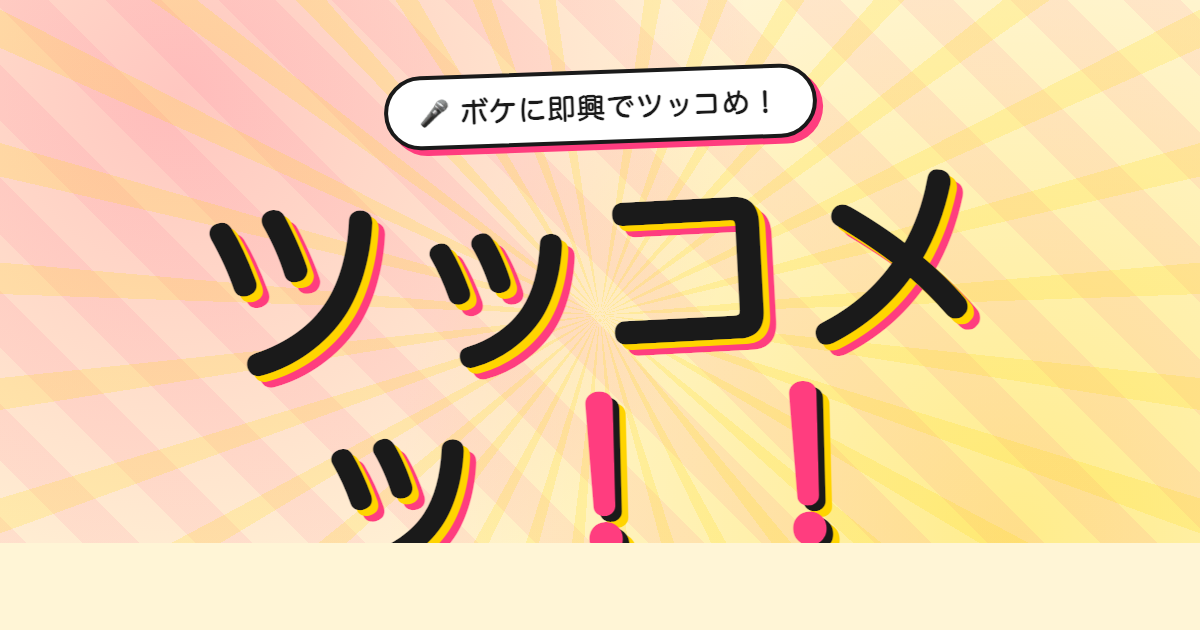
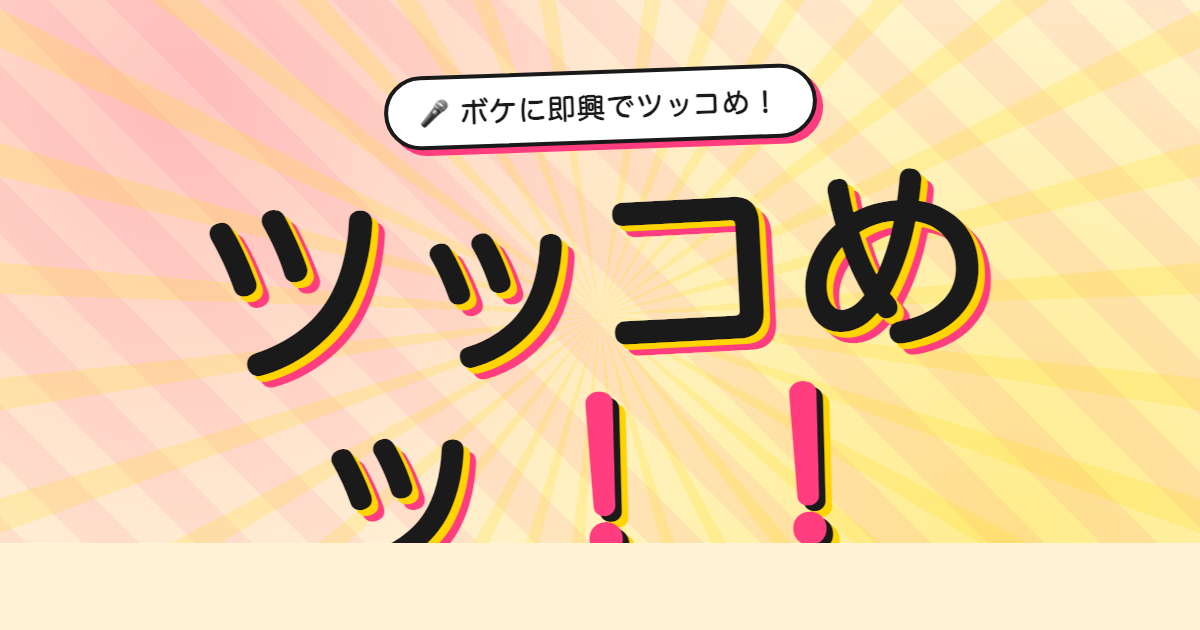
Simplify voice mode UX and rename to ツッコめッ
- Remove the manual mic on/off button
- Mic now controlled implicitly by the 音声入力 tab and ツッコめッ button:
  - Switching to 音声入力 tab starts recording (if not already)
  - Clicking 💥 ツッコめッ stops, transcribes, and submits
  - 次のお題 discards and starts a fresh capture
- Recording state shown via pulsing red border + dot indicator
  on the transcript area itself
- Title hiragana: ツッコメッ → ツッコめッ (everywhere incl. OGP)

Changed region(s): [[0.6475, 0.2714, 0.8325, 0.573]]

diff --git a/src/App.tsx b/src/App.tsx
@@ -19,7 +19,7 @@ type HistoryEntry = {
 
 const TIME_LIMIT = 30;
 const SITE_URL = "https://tsukkome.vercel.app/";
-const HASHTAG = "ツッコメッ";
+const HASHTAG = "ツッコめッ";
 
 const pickRandomBoke = (exclude?: number): Boke => {
   if (bokes.length === 1) return bokes[0];
@@ -46,7 +46,7 @@ const nativeShare = async (
   if (typeof navigator === "undefined" || !navigator.share) return false;
   try {
     await navigator.share({
-      title: "ツッコメッ！！",
+      title: "ツッコめッ！！",
       text: buildShareText(setup, tsukkomi),
       url: SITE_URL,
     });
@@ -117,14 +117,6 @@ function App() {
   const startTimer = () => {
     setTimeLeft(TIME_LIMIT);
     setTimerRunning(true);
-  };
-
-  const beginVoiceCapture = async () => {
-    if (!speech.supported) return;
-    if (recorder.supported) {
-      await recorder.start();
-    }
-    speech.start();
   };
 
   useEffect(() => {
@@ -234,22 +226,21 @@ function App() {
     }
   };
 
-  const toggleVoice = async () => {
-    if (speech.isListening || recorder.isRecording) {
-      if (speech.isListening) speech.stop();
-      await recorder.stop();
-    } else {
-      await beginVoiceCapture();
-    }
-  };
-
-  const switchMode = (next: InputMode) => {
+  const switchMode = async (next: InputMode) => {
     if (mode === next) return;
     if (next === "text") {
       if (speech.isListening) speech.stop();
       recorder.cancel();
+      setMode(next);
+      return;
     }
     setMode(next);
+    if (recorder.supported && !recorder.isRecording) {
+      await recorder.start();
+    }
+    if (!tts.isSpeaking && speech.supported && !speech.isListening) {
+      speech.start();
+    }
   };
 
   const handleNativeShare = async (entry: HistoryEntry) => {
@@ -271,7 +262,7 @@ function App() {
       <header className="header">
         <div className="title-row">
           <span className="title-mark left">▼</span>
-          <h1 className="title">ツッコメッ<span className="title-bang">！！</span></h1>
+          <h1 className="title">ツッコめッ<span className="title-bang">！！</span></h1>
           <span className="title-mark right">▼</span>
         </div>
         <p className="subtitle">ボケのお題に、ノリと勢いでツッコめ！</p>
@@ -356,23 +347,28 @@ function App() {
               </p>
             ) : (
               <>
-                <button
-                  type="button"
-                  className={isMicActive ? "mic-button listening" : "mic-button"}
-                  onClick={() => void toggleVoice()}
+                <div
+                  className={
+                    isMicActive
+                      ? "voice-transcript active"
+                      : "voice-transcript"
+                  }
                 >
-                  {isMicActive
-                    ? "● 録音中（タップで停止）"
-                    : "🎤 マイクをオン"}
-                </button>
-                <div className="voice-transcript">
-                  {voiceText || (
-                    <span className="placeholder">
-                      {isMicActive
-                        ? "聴いてます…ツッコんでください"
-                        : "マイクをオンにして、声でツッコんでください"}
+                  {isMicActive && (
+                    <span className="recording-indicator">
+                      <span className="recording-dot" />
+                      録音中
                     </span>
                   )}
+                  <div className="voice-transcript-text">
+                    {voiceText || (
+                      <span className="placeholder">
+                        {isMicActive
+                          ? "聴いてます…ツッコんでください"
+                          : "「💥 ツッコめッ！」を押すと送信、「次のお題」で新しいボケへ"}
+                      </span>
+                    )}
+                  </div>
                 </div>
                 {(speech.error || recorder.error) && (
                   <p className="voice-error">

diff --git a/src/App.css b/src/App.css
@@ -282,50 +282,71 @@
 .voice-area {
   display: flex;
   flex-direction: column;
-  gap: 14px;
-  align-items: center;
-  padding: 12px 0;
-}
-
-.mic-button {
-  background: #ff3d7f;
-  color: #fff;
-  border: 3px solid #1a1a1a;
-  border-radius: 999px;
-  padding: 14px 32px;
-  font-size: 1rem;
-  font-weight: 800;
-  cursor: pointer;
-  transition: all 0.1s;
-  box-shadow: 4px 4px 0 #1a1a1a;
-}
-
-.mic-button:hover {
-  transform: translate(-1px, -1px);
-  box-shadow: 5px 5px 0 #1a1a1a;
-}
-
-.mic-button.listening {
-  background: #ff0033;
-  animation: pulse-mic 0.8s ease-in-out infinite alternate;
-}
-
-@keyframes pulse-mic {
-  from { box-shadow: 4px 4px 0 #1a1a1a, 0 0 0 0 rgba(255, 0, 51, 0.5); }
-  to { box-shadow: 4px 4px 0 #1a1a1a, 0 0 0 18px rgba(255, 0, 51, 0); }
+  gap: 12px;
 }
 
 .voice-transcript {
   width: 100%;
-  min-height: 60px;
+  min-height: 90px;
   background: #fffbef;
   border: 3px dashed #1a1a1a;
   border-radius: 12px;
-  padding: 14px 16px;
+  padding: 16px 18px;
   font-size: 1.05rem;
   color: #1a1a1a;
   font-weight: 600;
   box-sizing: border-box;
+  position: relative;
+  transition: border-color 0.2s, background 0.2s;
+}
+
+.voice-transcript.active {
+  border-style: solid;
+  border-color: #ff0033;
+  background: #fff5f7;
+  box-shadow:
+    0 0 0 0 rgba(255, 0, 51, 0.5),
+    inset 0 0 0 0 transparent;
+  animation: transcript-pulse 1.4s ease-out infinite;
+}
+
+@keyframes transcript-pulse {
+  0% { box-shadow: 0 0 0 0 rgba(255, 0, 51, 0.45); }
+  100% { box-shadow: 0 0 0 14px rgba(255, 0, 51, 0); }
+}
+
+.recording-indicator {
+  display: inline-flex;
+  align-items: center;
+  gap: 6px;
+  background: #ff0033;
+  color: #fff;
+  padding: 4px 12px;
+  border-radius: 999px;
+  font-size: 0.78rem;
+  font-weight: 800;
+  letter-spacing: 0.05em;
+  margin-bottom: 10px;
+  border: 2px solid #1a1a1a;
+}
+
+.recording-dot {
+  width: 8px;
+  height: 8px;
+  background: #fff;
+  border-radius: 50%;
+  display: inline-block;
+  animation: dot-blink 0.8s ease-in-out infinite;
+}
+
+@keyframes dot-blink {
+  0%, 100% { opacity: 1; }
+  50% { opacity: 0.3; }
+}
+
+.voice-transcript-text {
+  line-height: 1.6;
+  word-break: break-word;
 }
 
 .placeholder {

diff --git a/index.html b/index.html
@@ -4,21 +4,21 @@
     <meta charset="UTF-8" />
     <link rel="icon" type="image/svg+xml" href="/favicon.svg" />
     <meta name="viewport" content="width=device-width, initial-scale=1.0" />
-    <title>ツッコメッ！！ - ボケに即興でツッコめ！</title>
+    <title>ツッコめッ！！ - ボケに即興でツッコめ！</title>
     <meta name="description" content="ボケのお題に対してツッコミを練習するWebアプリ。テキスト・音声入力対応、自動読み上げ機能付き。" />
 
     <meta property="og:type" content="website" />
-    <meta property="og:title" content="ツッコメッ！！ - ボケに即興でツッコめ！" />
+    <meta property="og:title" content="ツッコめッ！！ - ボケに即興でツッコめ！" />
     <meta property="og:description" content="ボケのお題に対してツッコミを練習するWebアプリ。テキスト・音声入力対応、自動読み上げ機能付き。" />
     <meta property="og:url" content="https://tsukkome.vercel.app/" />
     <meta property="og:image" content="https://tsukkome.vercel.app/ogp.png" />
     <meta property="og:image:width" content="1200" />
     <meta property="og:image:height" content="630" />
-    <meta property="og:site_name" content="ツッコメッ！！" />
+    <meta property="og:site_name" content="ツッコめッ！！" />
     <meta property="og:locale" content="ja_JP" />
 
     <meta name="twitter:card" content="summary_large_image" />
-    <meta name="twitter:title" content="ツッコメッ！！ - ボケに即興でツッコめ！" />
+    <meta name="twitter:title" content="ツッコめッ！！ - ボケに即興でツッコめ！" />
     <meta name="twitter:description" content="ボケのお題に対してツッコミを練習するWebアプリ。" />
     <meta name="twitter:image" content="https://tsukkome.vercel.app/ogp.png" />
   </head>

diff --git a/scripts/ogp.html b/scripts/ogp.html
@@ -131,7 +131,7 @@
       <div class="burst"></div>
       <div class="header">
         <div class="badge-bubble">🎤 ボケに即興でツッコめ！</div>
-        <h1 class="title">ツッコメッ<span class="title-bang">！！</span></h1>
+        <h1 class="title">ツッコめッ<span class="title-bang">！！</span></h1>
       </div>
       <div class="footer">
         <div class="features">
